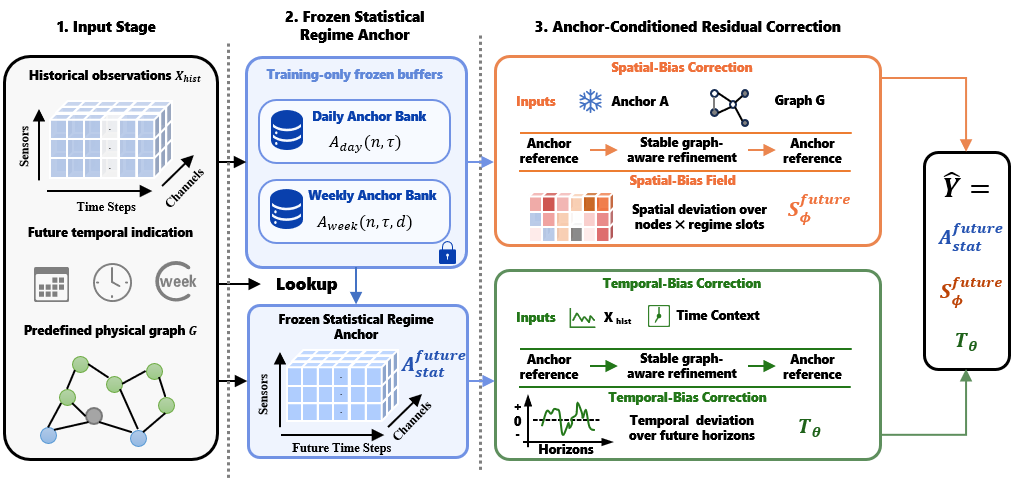
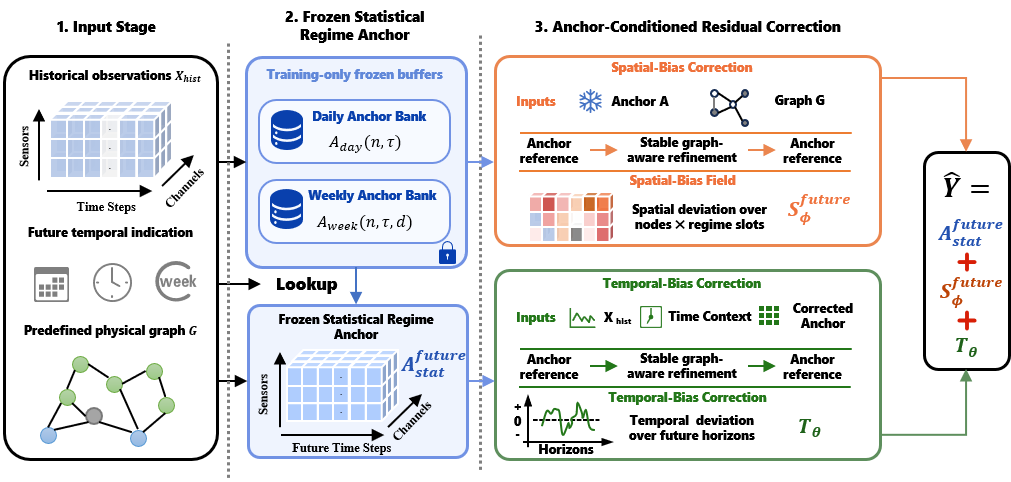
Simplify README results table

Changed region(s): [[0.6133, 0.6224, 0.8586, 0.6846], [0.9199, 0.4357, 1.0, 0.5602], [0.9505, 0.6535, 0.9812, 0.7469]]

diff --git a/README.md b/README.md
@@ -224,22 +224,16 @@ python scripts/train_all.py --profile both --device cuda
 
 ## Overall Performance
 
-All results are averaged over five runs. Lower values are better. The best overall results are in **bold**, and the second-best results are <u>underlined</u>.
+All results are averaged over five runs. Lower values are better.
 
-| Method | PEMS03 MAE | PEMS03 RMSE | PEMS03 MAPE | PEMS04 MAE | PEMS04 RMSE | PEMS04 MAPE | PEMS07 MAE | PEMS07 RMSE | PEMS07 MAPE | PEMS08 MAE | PEMS08 RMSE | PEMS08 MAPE | PEMS-BAY MAE | PEMS-BAY RMSE | PEMS-BAY MAPE | METR-LA MAE | METR-LA RMSE | METR-LA MAPE |
-| --- | ---: | ---: | ---: | ---: | ---: | ---: | ---: | ---: | ---: | ---: | ---: | ---: | ---: | ---: | ---: | ---: | ---: | ---: |
-| DCRNN | 17.66 | 28.20 | 17.36% | 23.48 | 35.84 | 16.51% | 24.99 | 38.37 | 11.84% | 19.56 | 29.77 | 13.20% | 1.73 | 3.91 | 4.21% | 3.17 | 6.37 | 8.38% |
-| STGCN | 17.55 | 28.67 | 21.88% | 21.88 | 33.98 | 15.88% | 25.20 | 38.30 | 13.00% | 18.95 | 28.68 | 13.63% | 1.72 | 3.79 | 4.18% | 3.13 | 6.29 | 8.35% |
-| Graph WaveNet | 16.84 | 27.31 | 19.52% | 21.26 | 32.98 | 15.13% | 23.05 | 36.06 | 11.12% | 16.96 | 25.93 | 11.83% | 1.67 | 3.73 | 3.73% | 3.20 | 6.52 | 8.78% |
-| AGCRN | 17.43 | 29.08 | 17.66% | 21.18 | 33.45 | 15.01% | 22.57 | 36.07 | 10.77% | 18.46 | 27.96 | 12.74% | 1.62 | 3.72 | 3.67% | 3.49 | 7.02 | 9.94% |
-| ASTGCN | 18.16 | 29.82 | 18.46% | 22.35 | 34.56 | 16.05% | 26.34 | 39.92 | 12.16% | 18.96 | 28.94 | 12.43% | 1.81 | 4.14 | 4.16% | 3.49 | 7.02 | 9.94% |
-| PDFormer | 15.88 | 27.05 | 16.26% | 21.53 | 33.12 | 15.93% | 20.16 | **32.90** | 8.74% | 14.79 | 24.98 | 10.28% | <u>1.54</u> | 3.57 | <u>3.48%</u> | 3.07 | 6.28 | 8.63% |
-| STID | 16.28 | 28.08 | 17.35% | 19.34 | <u>31.20</u> | 13.20% | 20.58 | 33.74 | 9.30% | 15.21 | 24.41 | 10.26% | 1.55 | 3.58 | 3.50% | 3.12 | 6.48 | 9.12% |
-| STAEformer | 15.35 | 27.21 | 15.45% | 19.18 | 31.30 | 13.12% | 20.06 | 33.51 | 8.97% | 14.47 | 24.39 | 9.85% | 1.56 | <u>3.56</u> | 3.54% | **2.96** | **6.05** | **8.21%** |
-| D2STGNN | **14.99** | **25.74** | 15.20% | 19.43 | 31.32 | 12.90% | 20.42 | 33.64 | 8.53% | 14.73 | <u>23.92</u> | 11.04% | <u>1.54</u> | **3.55** | **3.45%** | <u>2.98</u> | <u>6.12</u> | <u>8.31%</u> |
-| STWave | 15.06 | <u>26.56</u> | <u>15.09%</u> | 18.98 | 31.48 | 12.64% | <u>19.70</u> | <u>33.41</u> | <u>8.27%</u> | <u>13.99</u> | 24.39 | <u>9.29%</u> | 1.60 | 3.71 | 3.60% | 3.23 | 6.66 | 9.28% |
-| STDN | 16.02 | 28.30 | 15.79% | <u>18.66</u> | 31.49 | <u>12.45%</u> | 28.08 | 39.76 | 15.87% | 14.88 | 25.64 | 9.99% | N/A | N/A | N/A | N/A | N/A | N/A |
-| RARF | <u>15.00</u> | 26.69 | **15.02%** | **17.98** | **30.49** | **11.90%** | **19.18** | 33.49 | **8.04%** | **13.37** | **23.11** | **8.86%** | **1.53** | 3.57 | **3.45%** | 3.01 | 6.19 | 8.45% |
+| Dataset | MAE | RMSE | MAPE |
+| --- | ---: | ---: | ---: |
+| PEMS03 | 15.00 | 26.69 | 15.02% |
+| PEMS04 | 17.98 | 30.49 | 11.90% |
+| PEMS07 | 19.18 | 33.49 | 8.04% |
+| PEMS08 | 13.37 | 23.11 | 8.86% |
+| PEMS-BAY | 1.53 | 3.57 | 3.45% |
+| METR-LA | 3.01 | 6.19 | 8.45% |
 
 ## Long-Horizon Forecasting
 